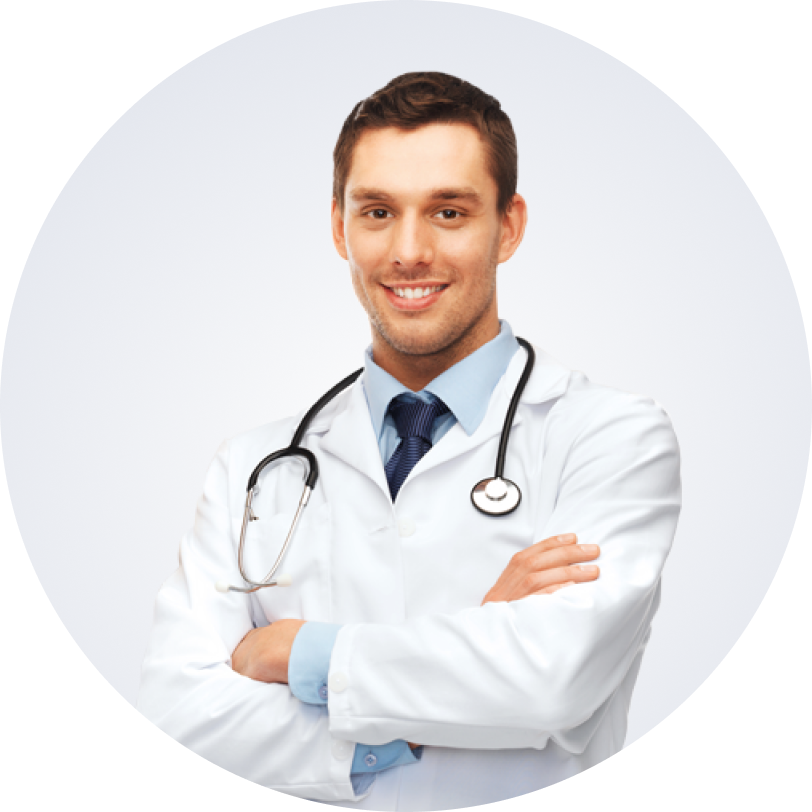
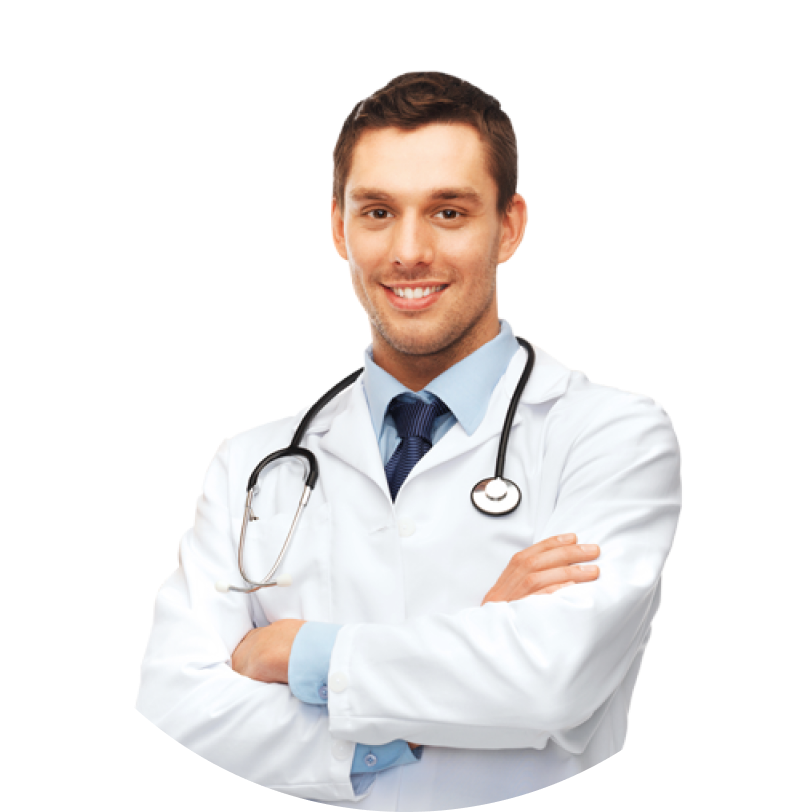
add-best-doctors

Changed region(s): [[0.0616, 0.0, 0.7697, 0.2771], [0.7697, 0.0924, 0.8005, 0.1232], [0.0308, 0.2771, 0.0616, 0.3079]]

diff --git a/src/components/doctors/Doctors.jsx b/src/components/doctors/Doctors.jsx
@@ -1,38 +1,80 @@
 import { styled } from "@mui/material";
 import { doctors } from "../../utils/constants/general";
 import { DoctorsItem } from "./DoctorsItem";
+import { Button } from "../UI/button/Button";
 
 export const Doctors = () => {
   return (
     <StyledContainer>
       <section>
-        <h2>Лучшие врачи</h2>
+        <h2>
+          Лучшие <span>врачи</span>
+        </h2>
         <div>
           <p>Попасть в команду медицинской клиники «MedCheck» могут</p>
           <p>
-            {" "}
             только лучшие специалисты с многолетней практикой и доказанным
             опытом.
           </p>
         </div>
       </section>
-      <div>
-        {doctors.map((item) => (
-          <DoctorsItem key={item.id} {...item} />
-        ))}
-      </div>
+      <StyledContainerItem>
+        <StyledContainerImage>
+          {doctors.map((item) => (
+            <DoctorsItem key={item.id} {...item} />
+          ))}
+        </StyledContainerImage>
+        <StyledButton variant={"outlined"}>
+          <span>В </span>се врачи клиники
+        </StyledButton>
+      </StyledContainerItem>
     </StyledContainer>
   );
 };
+const StyledButton = styled(Button)(() => ({
+  width: "200px",
+  height: "42px",
+  textTransform: "lowercase",
+  margin: "0 auto",
+  "& span": {
+    textTransform: "uppercase",
+  },
+}));
+
+const StyledContainerImage = styled("div")(() => ({
+  display: "flex",
+  alignItems: "center",
+  justifyContent: "center",
+  gap: "30px",
+}));
 const StyledContainer = styled("div")(() => ({
-  //   width: "80%",
-  //   margin: "0 auto",
-  //   display: "flex",
-  //   flexDirection: "column",
-  //   gap: "40px",
-  //   "& section": {
-  //     display: "flex",
-  //     flexDirection: "column",
-  //     gap: "36px",
-  //   },
+  height: "555px",
+  display: "flex",
+  flexDirection: "column",
+  gap: "60px",
+  fontFamily: "Manrope",
+
+  "& section": {
+    paddingLeft: "120px",
+    display: "flex",
+    flexDirection: "column",
+    gap: "36px",
+
+    "& h2": {
+      fontSize: "36px",
+    },
+    "& span": {
+      color: "#048741",
+    },
+    "& div": {
+      display: "flex",
+      flexDirection: "column",
+      gap: "2px",
+    },
+  },
+}));
+const StyledContainerItem = styled("div")(() => ({
+  display: "flex",
+  flexDirection: "column",
+  gap: "40px",
 }));

diff --git a/src/components/doctors/DoctorsItem.jsx b/src/components/doctors/DoctorsItem.jsx
@@ -3,17 +3,52 @@ import { styled } from "@mui/material";
 export const DoctorsItem = ({ img, name, title }) => {
   return (
     <StyledContainer>
-      <img src={img} alt={name} />
-      <StyledContainer>
-        <h2>{name}</h2>
-        <p>{title}</p>
-      </StyledContainer>
+      <StyledContainerImg>
+        <img src={img} alt={name} />
+      </StyledContainerImg>
+      <div>
+        <p>{name}</p>
+        <span>{title}</span>
+      </div>
     </StyledContainer>
   );
 };
 const StyledContainer = styled("div")(() => ({
+  width: "223px",
+  height: "278px",
+  display: "flex",
+  flexDirection: "column",
+  gap: "14px",
+  textAlign: "center",
+
+  "& div": {
+    display: "flex",
+    flexDirection: "column",
+    gap: "2px",
+  },
+
+  "& p": {
+    fontWeight: "500",
+    color: "#2C2D2E",
+  },
+  "& span": {
+    fontSize: "14px",
+    color: "#959595",
+  },
+}));
+const StyledContainerImg = styled("div")(() => ({
+  width: "203px",
+  height: "203px",
+  display: "flex",
+  justifyContent: "center",
+  alignItems: "center",
+  borderRadius: "50%",
+  background: "linear-gradient(180deg, #FDFDFD 0%, #E4E7EE 0%)",
+  overflow: "hidden",
   " & img": {
-    width: "185px",
-    height: "184px",
+    width: "203px",
+    height: "203px",
+    objectFit: "cover",
+    borderRadius: "50%",
   },
 }));

diff --git a/src/utils/constants/general.js b/src/utils/constants/general.js
@@ -1,7 +1,7 @@
 export const doctors = [
   {
     id: 1,
-    img: "/src/assets/images/therapist.png",
+    img: "/src/assets/images/therapists.png",
     name: "Войнич Дарья",
     title: "Врач-терапевт",
   },

diff --git a/src/App.jsx b/src/App.jsx
@@ -1,10 +1,7 @@
-import { Doctors } from "./components/doctors/Doctors";
-
 export const App = () => {
   return (
     <div>
-      {/* <h1>Healtcheck</h1> */}
-      <Doctors />
+      <h1>Healtcheck</h1>
     </div>
   );
 };
